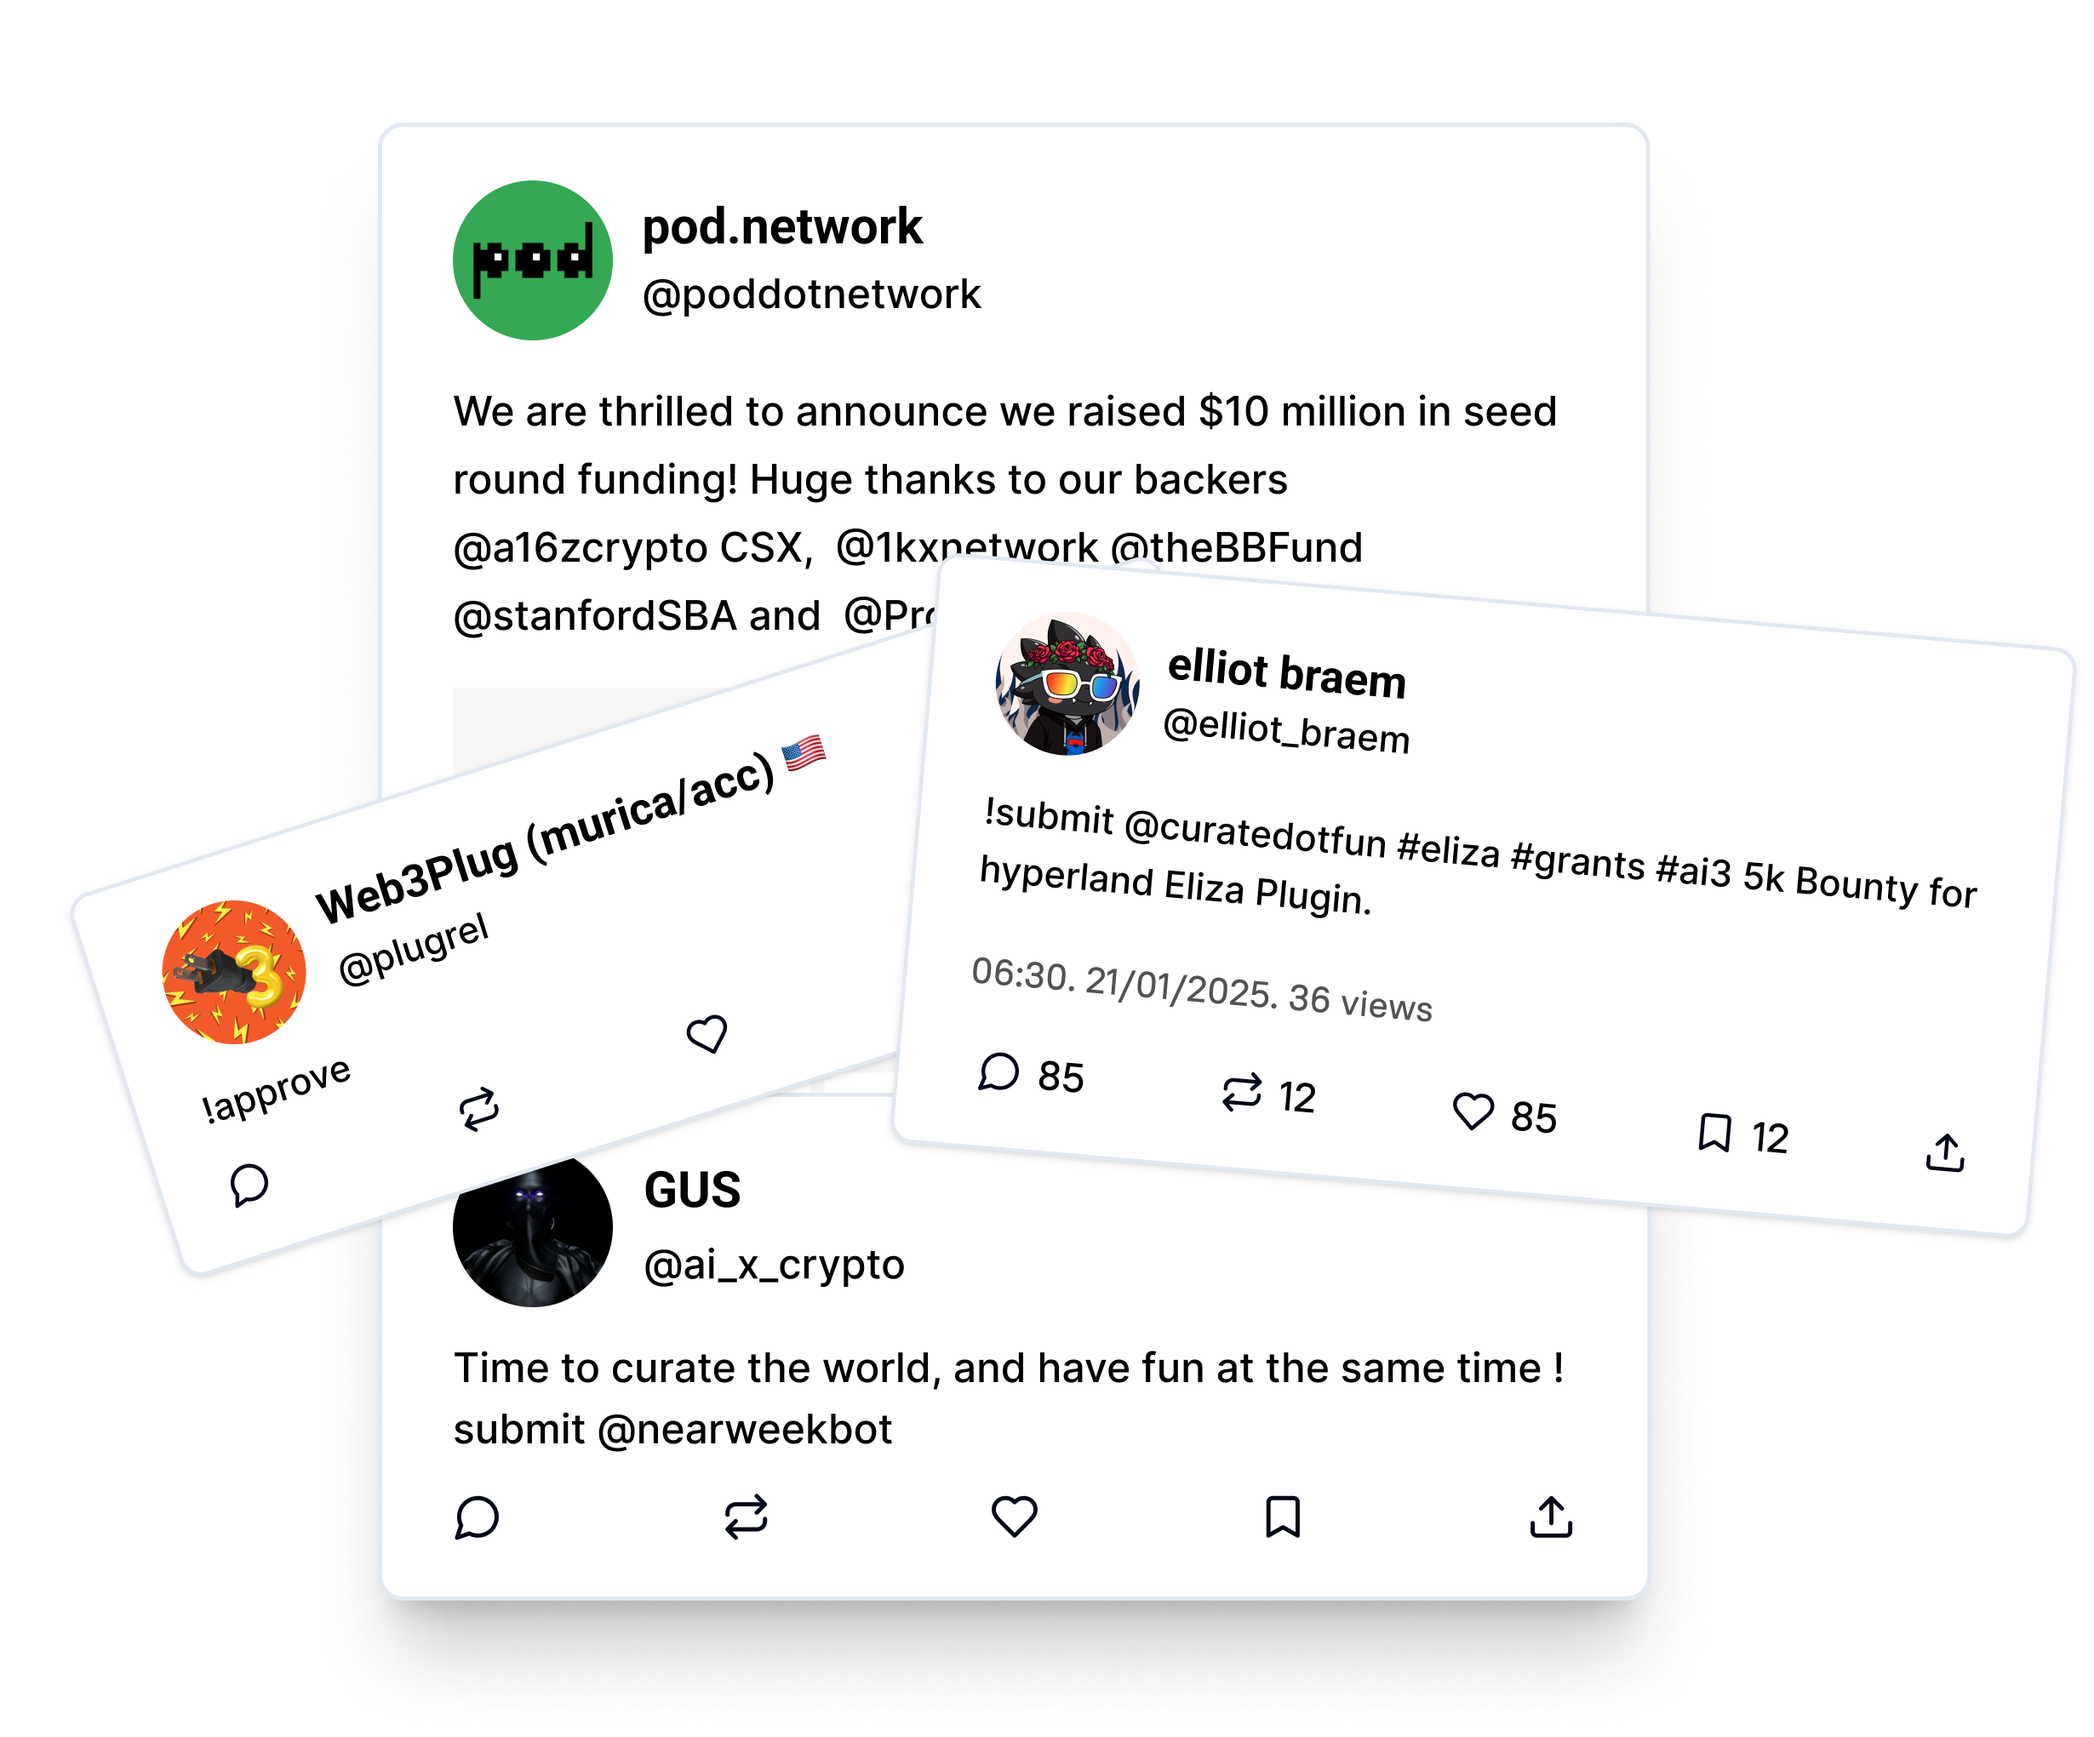
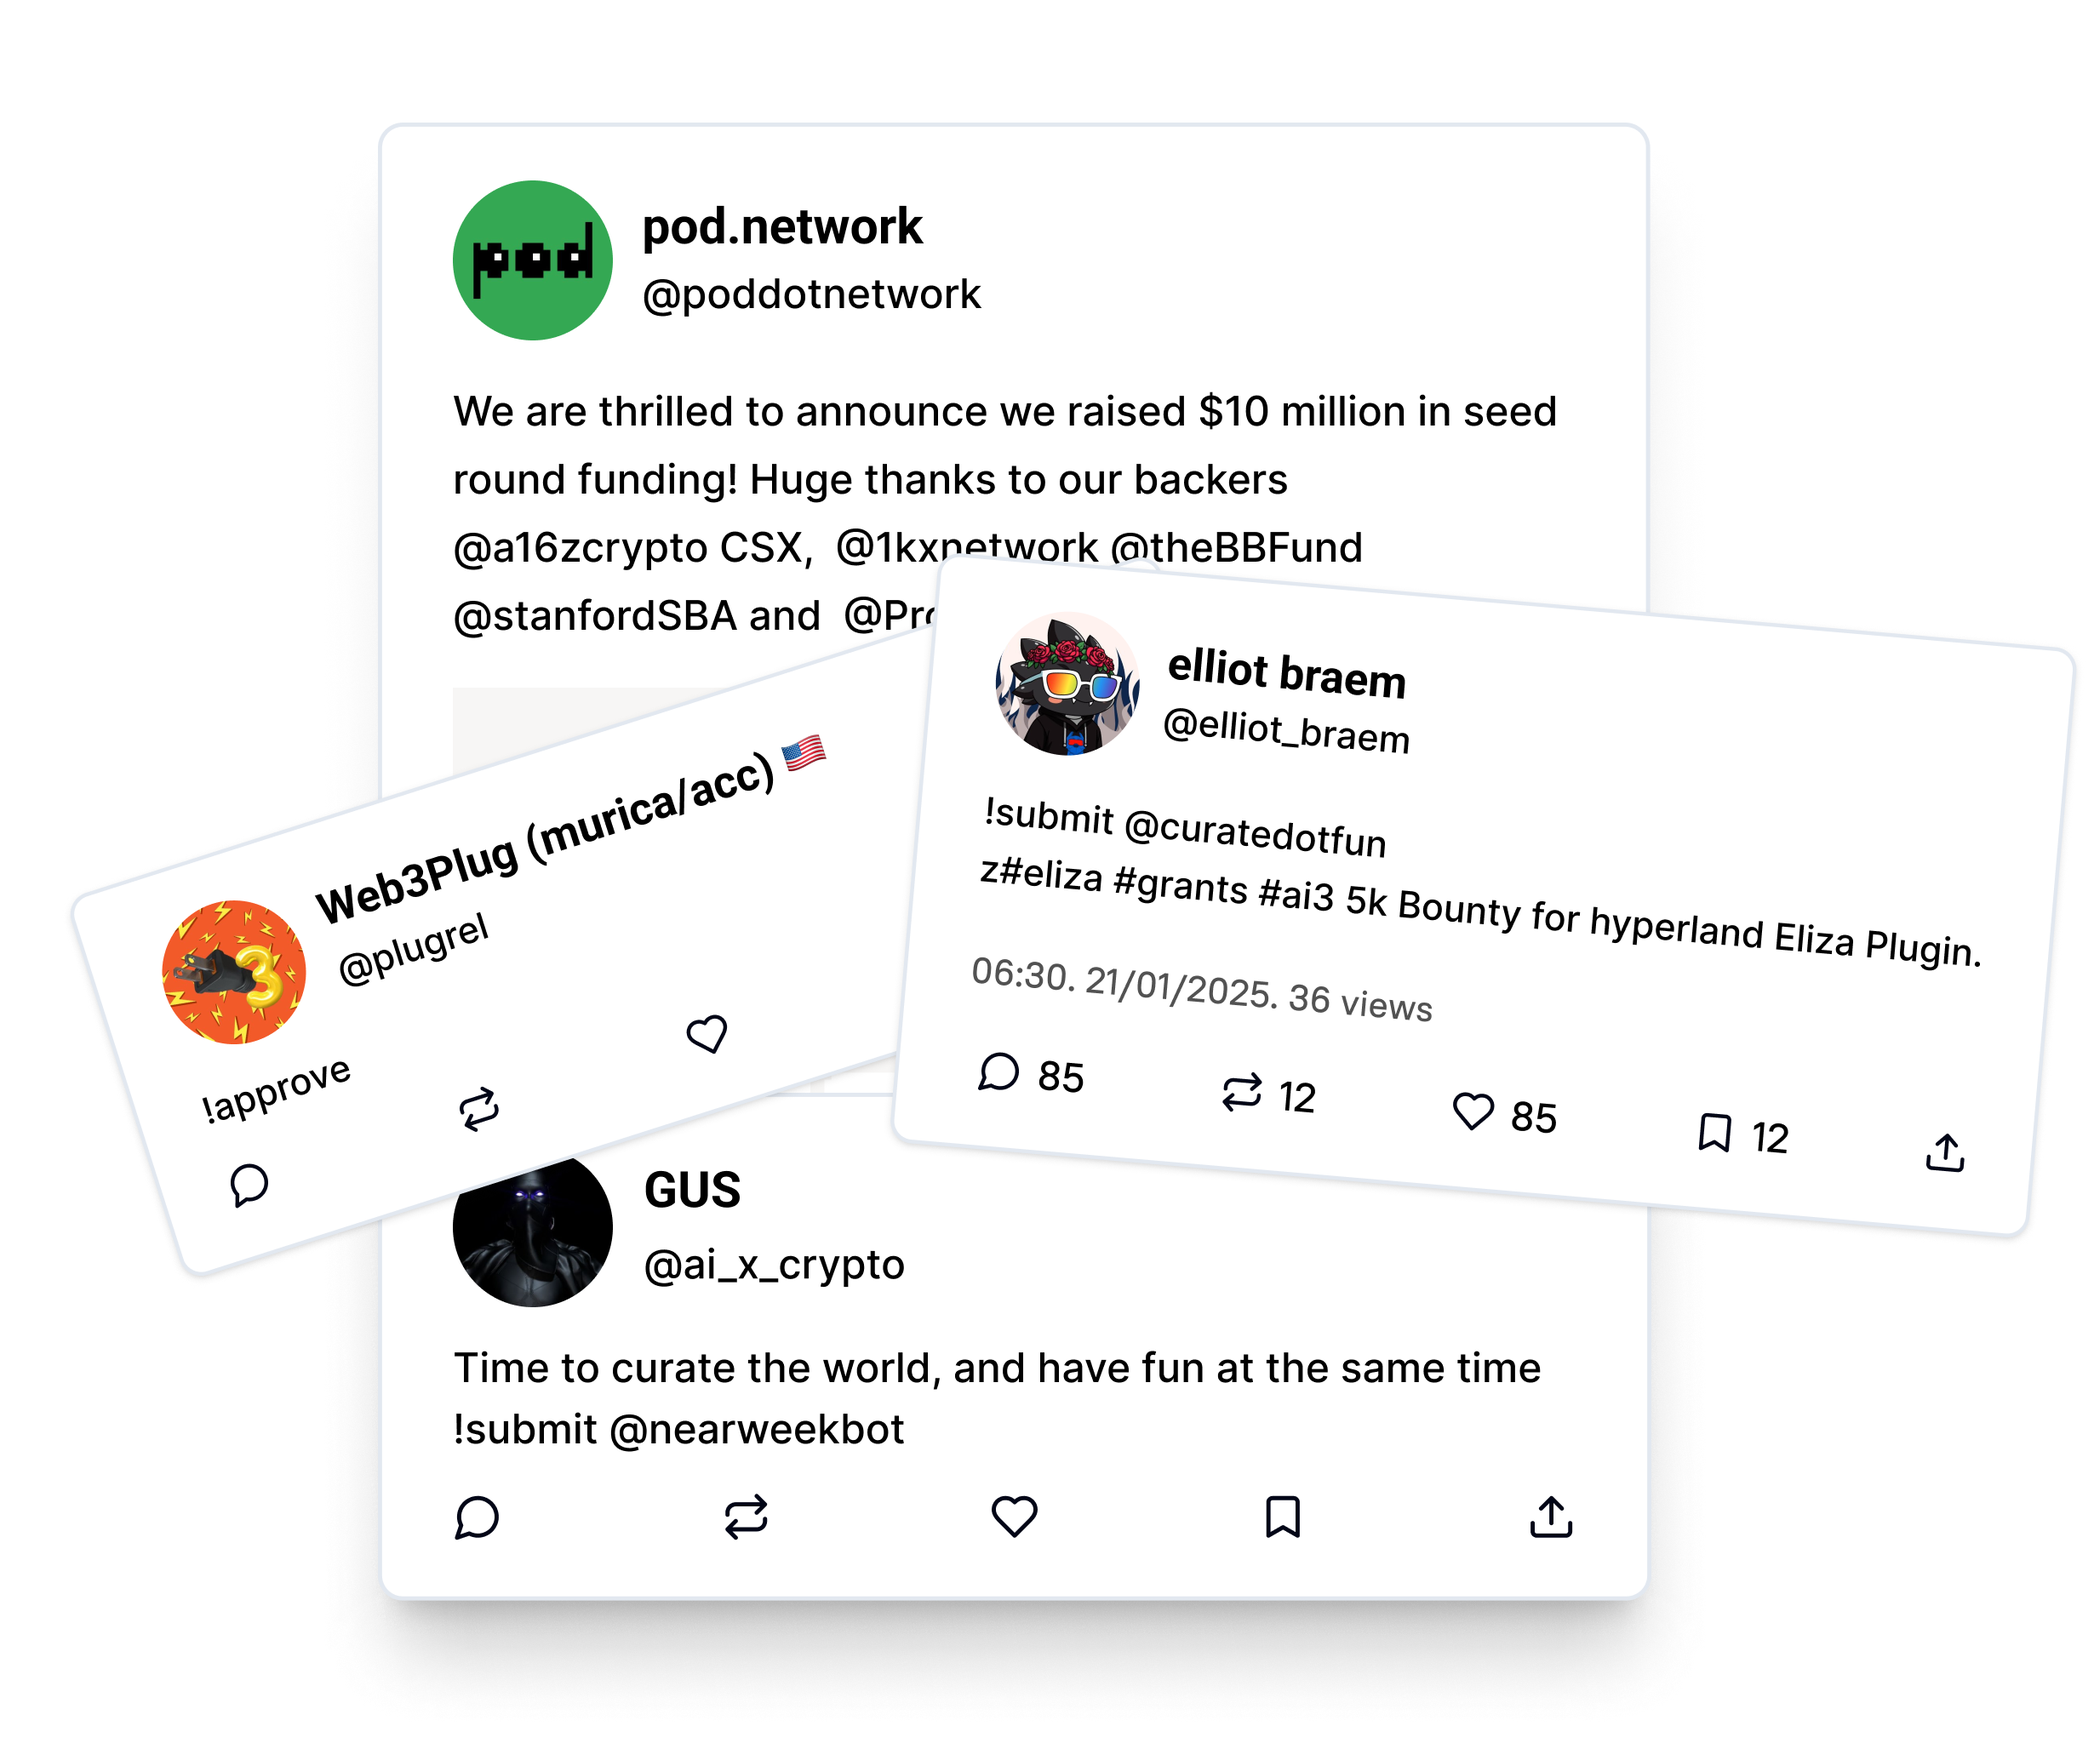
animated communities and updated hero image

Changed region(s): [[0.4634, 0.463, 0.9577, 0.5556], [0.2163, 0.8025, 0.4325, 0.8334]]

diff --git a/landing-page/pages/index.tsx b/landing-page/pages/index.tsx
@@ -587,7 +587,7 @@ export default function Home() {
                   Submit contents anywhere by replying to posts with{" "}
                   <span className="font-mono">!submit @curatedotfun</span>
                   <br />
-                  <span className="font-mono">#Hashtag</span>
+                  <span className="font-mono text-neutral-500 rounded-sm bg-neutral-100 p-2">#Hashtag</span>
                 </p>
               </div>
 
@@ -603,8 +603,9 @@ export default function Home() {
                   Streamlined Approval Workflow
                 </h3>
                 <p className="font-['PT_Root_UI'] text-[16px] md:text-[18px] leading-[26px] md:leading-[30px] text-[#57606A] text-center md:text-left">
-                  Designated approvers reviews and approve submissions directly on platform by replying{" "}
-                  <span className="font-mono">@!approve</span>
+                  Designated approvers review and approve submissions directly on platform by replying with{" "}
+                  <span className="font-mono text-neutral-500 rounded-sm bg-neutral-100 p-2">!approve</span> or
+                  <span className="font-mono text-neutral-500 rounded-sm bg-neutral-100 p-2">!reject</span>
                 </p>
               </div>
 
